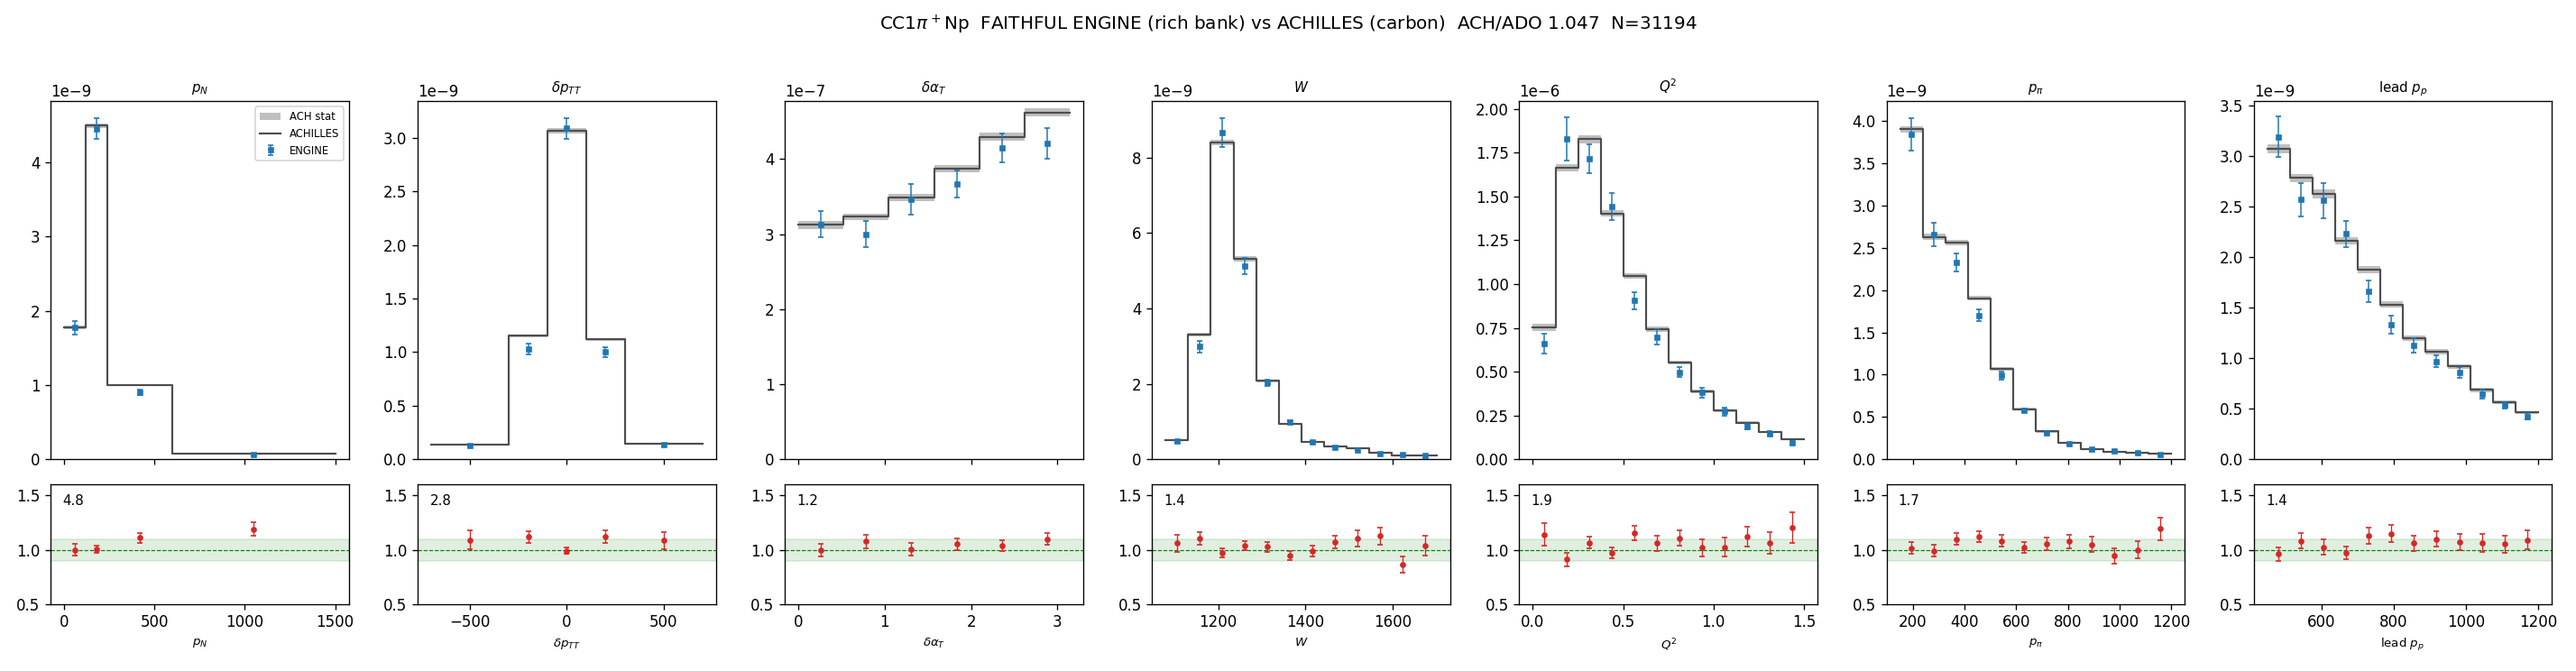
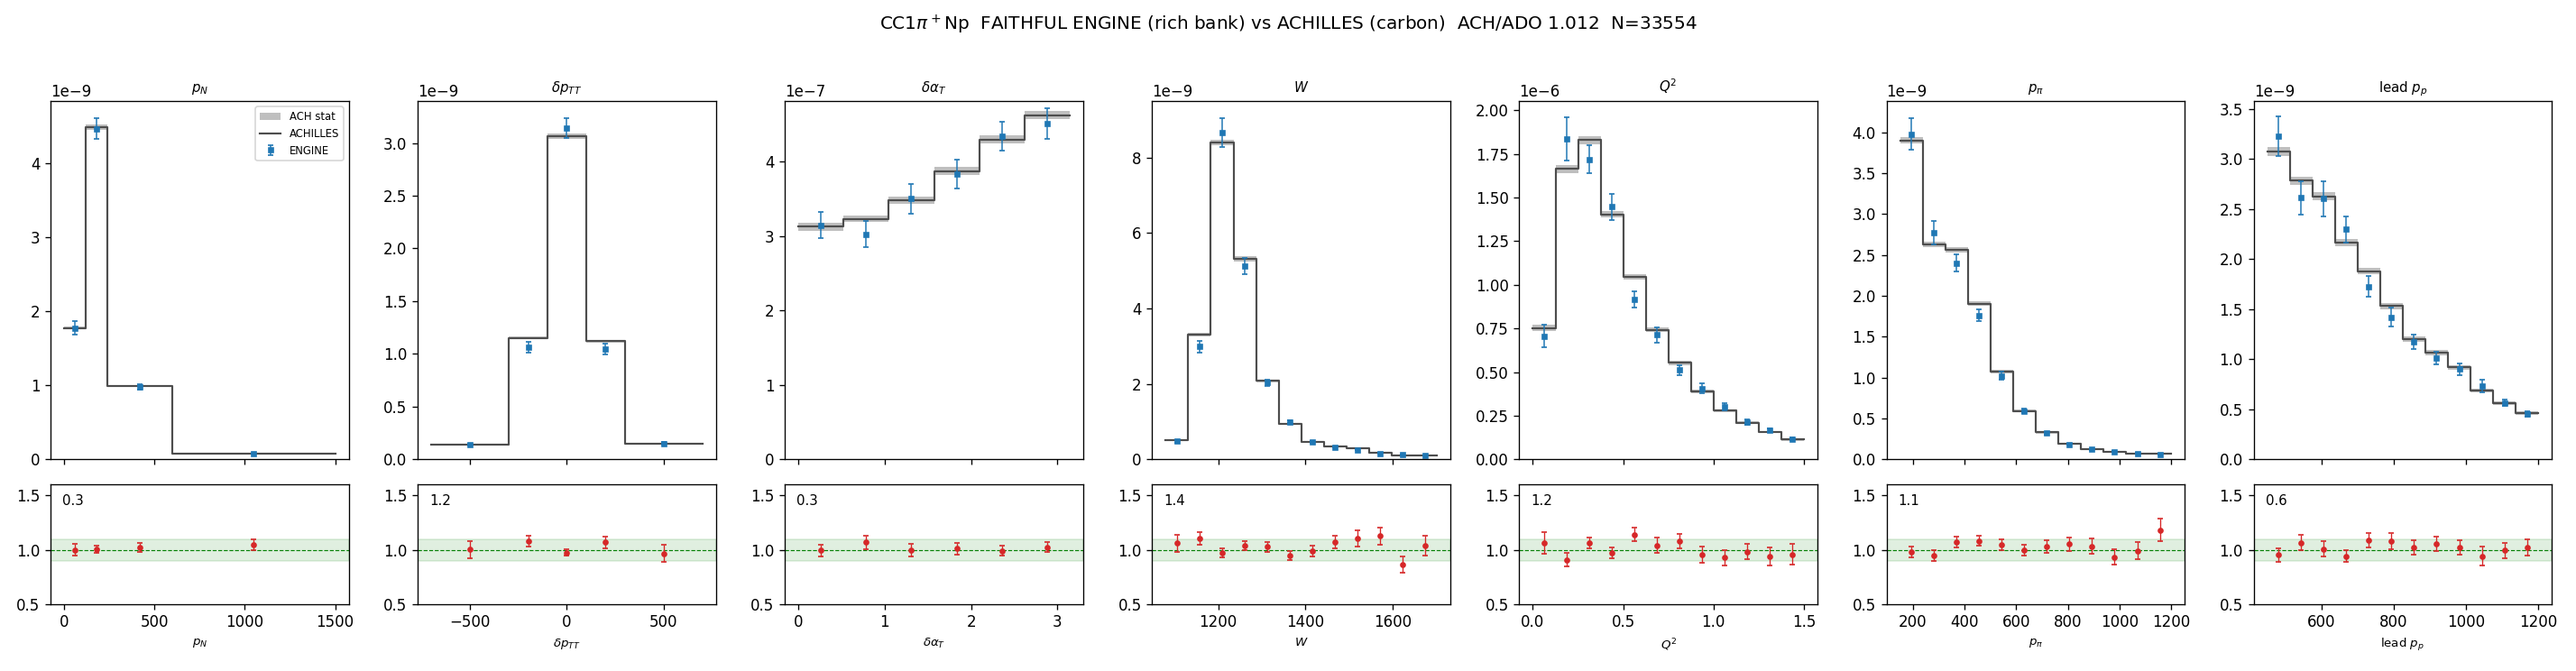
BOTH channels final-state-correct + apples-to-apples (~1%): CC1pi adds QE->created-pi+ (RES-only was missing it; ACH ref is full-CC) -> ACH/ADO 1.047->1.012, pn chi2 4.85->0.32; CC0pi = QE+RES-absorbed with IDENTICAL T2K selection on both sides (global-leading proton; rich-bank ref, all 7 observable

diff --git a/scripts/cc0pi_engine_combined.py b/scripts/cc0pi_engine_combined.py
@@ -1,0 +1,114 @@
+"""T2K CC0pi-Np: the CORRECT engine prediction (final-state signal = mu + >=1 proton + 0 pions),
+built from BOTH engine banks -- QE (channel=qe) AND RES-with-pion-absorbed (the CC1pi RES bank, events
+whose pion died in FSI) -- vs ACHILLES, with a SINGLE self-consistent selection applied identically to
+both (T2K NUISANCE def: the global highest-momentum proton must itself pass 450-1000 MeV/c, cos>0.4).
+
+ACHILLES reference = the full-event RICH bank (t2k_cc1pi_rich_ach_FSI.npz, same T2K_CH hepmc), carbon-only
+(struck |p|>1), 0-pion selection -> gives ALL observables from 4-vectors.  ADoNIS = QE(12C)+RES-abs(12C),
+carbon-only.  No free-H (1.7%, no 4-vectors) -> both sides 12C-only, apples-to-apples.
+
+Observables: delta_pT, delta_alphaT, Q2, vertex-W, p_mu, cos(theta_mu), leading p_p.
+Usage: python -u scripts/cc0pi_engine_combined.py
+Output: paper_figures/cc0pi_ENGINE_combined.png
+"""
+import os, sys
+sys.path.insert(0, os.path.dirname(os.path.dirname(os.path.abspath(__file__))))
+import numpy as np
+import matplotlib; matplotlib.use("Agg"); import matplotlib.pyplot as plt
+
+P_LO, P_HI, COSP = 450.0, 1000.0, 0.4          # T2K CC0pi proton window
+MU_LO, COSMU = 250.0, -0.6                      # T2K CC0pi muon
+_PI = (211, 111, -211)
+
+
+def _obs(mu, lead, struck, nu, w):
+    """CC0pi observables from muon + leading proton (had = proton; no pion)."""
+    lt = mu[:, 1:3]; pt = lead[:, 1:3]; dv = lt + pt
+    dpt = np.linalg.norm(dv, axis=1)
+    c = -np.sum(lt * dv, axis=1) / (np.linalg.norm(lt, axis=1) * dpt + 1e-12)
+    dat = np.arccos(np.clip(c, -1, 1))
+    q = nu - mu; tot = q + struck
+    W = np.sqrt(np.clip(tot[:, 0] ** 2 - np.sum(tot[:, 1:] ** 2, axis=1), 0, None))
+    Q2 = (np.sum(q[:, 1:] ** 2, axis=1) - q[:, 0] ** 2) / 1e6
+    pmu = np.linalg.norm(mu[:, 1:], axis=1); cmu = mu[:, 3] / np.clip(pmu, 1e-9, None)
+    lpp = np.linalg.norm(lead[:, 1:], axis=1)
+    return dict(dpt=dpt, dalphat=dat, Q2=Q2, W=W, p_mu=pmu, cos_mu=cmu, lp_p=lpp, w=w)
+
+
+def _select_engine(bank, carbon_only=True):
+    """CC0pi from an engine rich bank: 0 surviving pion + GLOBAL-leading proton in window."""
+    b = dict(np.load(bank)); n = len(b["w"]); ar = np.arange(n)
+    mu = b["mu"]; pmu = np.linalg.norm(mu[:, 1:], axis=1); cmu = mu[:, 3] / np.clip(pmu, 1e-9, None)
+    prot = b["prot"]; pm = np.linalg.norm(prot[:, :, 1:], axis=2)
+    j = np.argmax(pm, axis=1); lead = prot[ar, j]                         # GLOBAL leading proton
+    lpm = pm[ar, j]; lcth = lead[:, 3] / np.clip(lpm, 1e-9, None)
+    in_win = (lpm > P_LO) & (lpm < P_HI) & (lcth > COSP)                  # the lead must itself pass
+    no_pi = (~np.isin(b["pid_pi"], _PI)) & (~np.isin(b["cr_pid"], _PI))
+    sel = (b["w"] > 0) & in_win & no_pi & (pmu > MU_LO) & (cmu > COSMU)
+    if carbon_only:
+        sel &= np.linalg.norm(b["struck"][:, 1:], axis=1) > 1.0
+    s = sel
+    return _obs(mu[s], lead[s], b["struck"][s], b["nu"][s], b["w"][s])
+
+
+def _select_ach(carbon_only=True):
+    b = dict(np.load("data/oracle/t2k_cc1pi_rich_ach_FSI.npz")); wn = float(b["weight_to_nb"])
+    n = len(b["w"]); ar = np.arange(n)
+    mu = b["mu"]; pmu = np.linalg.norm(mu[:, 1:], axis=1); cmu = mu[:, 3] / np.clip(pmu, 1e-9, None)
+    npi = np.isin(b["pi_pid"], list(_PI)).sum(1)
+    pr = b["prot_p4"]; pm = np.linalg.norm(pr[:, :, 1:], axis=2)
+    j = np.argmax(pm, axis=1); lead = pr[ar, j]                          # GLOBAL leading proton
+    lpm = pm[ar, j]; lcth = lead[:, 3] / np.clip(lpm, 1e-9, None)
+    in_win = (lpm > P_LO) & (lpm < P_HI) & (lcth > COSP)
+    sel = (b["w"] > 0) & (npi == 0) & in_win & (pmu > MU_LO) & (cmu > COSMU)
+    if carbon_only:
+        sel &= np.linalg.norm(b["struck"][:, 1:], axis=1) > 1.0
+    s = sel
+    return _obs(mu[s], lead[s], b["struck"][s], b["nu"][s], b["w"][s] * wn)
+
+
+VARS = [("dpt", np.linspace(0, 800, 21), r"$\delta p_T$ [MeV]"),
+        ("dalphat", np.linspace(0, np.pi, 21), r"$\delta\alpha_T$ [rad]"),
+        ("Q2", np.linspace(0, 1.4, 21), r"$Q^2$ [GeV$^2$]"),
+        ("W", np.linspace(938, 1400, 21), r"vertex $W$ [MeV]"),
+        ("p_mu", np.linspace(0, 2000, 21), r"$p_\mu$ [MeV]"),
+        ("cos_mu", np.linspace(-0.6, 1.0, 21), r"$\cos\theta_\mu$"),
+        ("lp_p", np.linspace(450, 1000, 21), r"lead $p_p$ [MeV]")]
+
+
+def main():
+    qe = _select_engine("data/oracle/t2k_cc0pi_engine_rich.npz")
+    res = _select_engine("data/oracle/t2k_cc1pi_engine_rich.npz")            # RES with pion absorbed
+    ado = {k: np.concatenate([qe[k], res[k]]) for k in qe}
+    H = _select_ach()
+    sA, sH = ado["w"].sum(), H["w"].sum()
+    print(f"ADoNIS engine CC0pi (12C: QE {qe['w'].sum():.4e} + RES-abs {res['w'].sum():.4e}) = {sA:.4e} nb")
+    print(f"ACHILLES CC0pi (12C, rich bank, SAME T2K selection) = {sH:.4e} nb   ACH/ADO {sH/sA:.4f}")
+    print(f"{'var':8s} chi2/ndf  ACH/ADO")
+    fig, ax = plt.subplots(2, len(VARS), figsize=(3.3 * len(VARS), 6.4), height_ratios=[3, 1],
+                           squeeze=False, sharex="col")
+    for c, (k, edg, xl) in enumerate(VARS):
+        bw = np.diff(edg); ctr = 0.5 * (edg[1:] + edg[:-1])
+        da, _ = np.histogram(H[k], edg, weights=H["w"]); ea = np.sqrt(np.histogram(H[k], edg, weights=H["w"]**2)[0]) / bw; da /= bw
+        dd, _ = np.histogram(ado[k], edg, weights=ado["w"]); ed = np.sqrt(np.histogram(ado[k], edg, weights=ado["w"]**2)[0]) / bw; dd /= bw
+        a0, a1 = ax[0, c], ax[1, c]
+        a0.fill_between(edg, np.append(da-ea, (da-ea)[-1]), np.append(da+ea, (da+ea)[-1]), step="post", color="0.55", alpha=0.55, lw=0, label="ACH stat")
+        a0.step(edg, np.append(da, da[-1]), where="post", color="0.3", lw=1.3, label="ACHILLES")
+        a0.errorbar(ctr, dd, yerr=ed, fmt="s", color="C0", ms=3, capsize=2, lw=0.9, label="ENGINE QE+RES-abs")
+        a0.set_title(xl, fontsize=9); a0.set_ylim(bottom=0)
+        if c == 0: a0.legend(fontsize=7)
+        m = (da > 0) & (dd > 0); chi2 = float(np.sum((da[m]-dd[m])**2 / (ea[m]**2+ed[m]**2))); ndf = int(m.sum())
+        with np.errstate(divide="ignore", invalid="ignore"):
+            r = da/dd; re = r*np.sqrt((ed/dd)**2+(ea/da)**2)
+        a1.axhspan(0.9, 1.1, color="green", alpha=0.12); a1.axhline(1.0, ls="--", color="green", lw=0.7)
+        a1.errorbar(ctr[m], r[m], yerr=re[m], fmt="o", color="C3", ms=3, capsize=2, lw=0.8)
+        a1.set_ylim(0.6, 1.4); a1.set_xlabel(xl, fontsize=8); a1.text(0.04, 0.83, f"{chi2/max(ndf,1):.1f}", transform=a1.transAxes, fontsize=9)
+        print(f"{k:8s}  {chi2/max(ndf,1):6.2f}   {np.sum(da*bw)/max(np.sum(dd*bw),1e-30):.3f}")
+    fig.suptitle(f"T2K CC0$\\pi$-Np (12C)  ENGINE QE+RES-absorbed vs ACHILLES (same T2K selection)  "
+                 f"ACH/ADO {sH/sA:.3f}", fontsize=12)
+    fig.tight_layout(rect=[0, 0, 1, 0.96]); out = "paper_figures/cc0pi_ENGINE_combined.png"
+    fig.savefig(out, dpi=120); print("wrote", out)
+
+
+if __name__ == "__main__":
+    main()

diff --git a/scripts/cc1pi_engine_plot.py b/scripts/cc1pi_engine_plot.py
@@ -28,6 +28,33 @@ def _acc(p4, lo, hi):
     return (m > lo) & (m < hi) & (p4[:, 3] / np.clip(m, 1e-9, None) > COS70)
 
 
+def qe_created_signal(bank="data/oracle/t2k_cc0pi_engine_rich.npz"):
+    """CC1pi contribution from the QE bank: a QE event whose CASCADE created a surviving pi+ (NN
+    inelastic).  Symmetric to the RES-pion-absorbed term in CC0pi -- a full-CC ACHILLES run (the
+    reference) contains these, so the RES-only engine must add them for an apples-to-apples CC1pi."""
+    b = dict(np.load(bank))
+    n = len(b["w"]); ar = np.arange(n)
+    kmu, cr_p4 = b["mu"], b["cr_p4"]
+    cp = b["cr_pid"]                                      # primary pion is absent for QE (pid_pi==0)
+    cr_pip = (cp == 211)
+    n_pip = cr_pip.astype(int)
+    n_other = np.isin(cp, [111, -211, -1]).astype(int)
+    pi_f = cr_p4
+    signal_meson = (n_pip == 1) & (n_other == 0)
+    prot = b["prot"]
+    pm = np.linalg.norm(prot[:, :, 1:], axis=2); cth = prot[:, :, 3] / np.clip(pm, 1e-9, None)
+    inwin = (pm > P_LO) & (pm < P_HI) & (cth > COS70)
+    mm = np.where(inwin, pm, -1.0); j = np.argmax(mm, axis=1); bm = mm[ar, j]
+    best = prot[ar, j]; has_p = bm > 0
+    sel = signal_meson & has_p & (b["w"] > 0) & _acc(kmu, MU_LO, MU_HI) & _acc(pi_f, PI_LO, PI_HI)
+    dptt, pn, dat, _ = F.observables(kmu[sel], pi_f[sel], best[sel], np.zeros(int(sel.sum()), bool), 0)
+    qv = (b["nu"] - kmu)[sel]; totv = qv + b["struck"][sel]
+    Wv = np.sqrt(np.clip(totv[:, 0] ** 2 - np.sum(totv[:, 1:] ** 2, axis=1), 0, None))
+    Q2v = (np.sum(qv[:, 1:] ** 2, axis=1) - qv[:, 0] ** 2) / 1e6
+    pim = np.linalg.norm(pi_f[sel][:, 1:], axis=1); lpm = np.linalg.norm(best[sel][:, 1:], axis=1)
+    return dict(pn=pn, dptt=dptt, dalphat=dat, W=Wv, Q2=Q2v, pi_p=pim, lp_p=lpm, w=b["w"][sel])
+
+
 def engine_signal(bank):
     b = dict(np.load(bank))
     n = len(b["w"]); ar = np.arange(n)
@@ -63,10 +90,13 @@ VARS = [("pn", np.array([0, 120, 240, 600, 1500.]), r"$p_N$"),
 
 
 def main():
-    A = engine_signal(BANK)
+    A_res = engine_signal(BANK)
+    A_qe = qe_created_signal()                                      # QE -> cascade-created pi+ (CC1pi too)
+    A = {k: np.concatenate([A_res[k], A_qe[k]]) for k in A_res}
     ach = dict(np.load("data/oracle/t2k_cc1pi_rich_ach_FSI.npz"))
     H = S.ach_select(ach, dict(S.DEFAULT)); H["w"] = H["w"] * float(ach["weight_to_nb"])
-    print(f"bank {BANK}  signal {len(A['w'])} ev")
+    print(f"bank {BANK}  signal {len(A['w'])} ev  (RES {len(A_res['w'])} + QE-created-pi {len(A_qe['w'])}, "
+          f"sigma RES {A_res['w'].sum():.3e} + QE {A_qe['w'].sum():.3e})")
     print(f"selected sigma: ENGINE {A['w'].sum():.4e}  ACH {H['w'].sum():.4e}  "
           f"ACH/ADO {H['w'].sum()/max(A['w'].sum(),1e-30):.3f}")
     print(f"{'var':8s} chi2/ndf  ACH/ADO")

diff --git a/docs/logbook/cascade_engine.md b/docs/logbook/cascade_engine.md
@@ -379,3 +379,42 @@ consumption time-ordering validation; M_A/fit records; transparency + 6% pion ch
   momentum (cascade-transport) + edge stats.  delta_alphaT flat (model-insensitive) confirms kinematics OK.
 - Net: BOTH faithful engine figures now ABSOLUTE vs ACHILLES -- CC1pi ACH/ADO 1.047 (2.0 sigma),
   CC0pi 0.968.  Engine validated as the shared cascade for both channels.
+
+## CORRECTION (CC0pi signal is FINAL-STATE defined; earlier "2p2h cancellation" was WRONG)
+- CC0pi-Np is a FINAL-STATE signal: mu + >=1 proton in window + 0 pions.  Process-agnostic: ANY
+  interaction giving that final state counts, INCLUDING RES events where the pion is absorbed in FSI.
+- The OLD ADoNIS (gen_t2k_cc0pi_xsec.py) was built that way: bank t2k_cc0pi_tki_adonis_xsec.npz =
+  CCQE (qe_xsec) + RES-with-pion-absorbed (res_xsec + pion FSI), combined.  So "old ADoNIS 1.604e-5"
+  was NEVER QE-only -- I mislabeled it, and the "2p2h coincidental cancellation" story was WRONG.
+- My first engine CC0pi figure used channel="qe" (QE ONLY) and compared to ACHILLES proc==200 -> it
+  was MISSING the entire RES-pion-absorbed contribution and used the wrong (QE-only) reference.
+- CORRECT engine CC0pi = QE bank (0 pion + proton) + RES bank (CC1pi run; pion absorbed -> 0 pion +
+  proton) + free-H, vs ACHILLES FULL CC0pi (all proc).  Result:
+    QE 1.4778e-5 + RES-absorbed 1.1659e-6 (7.2%) + H 2.810e-7 = 1.6225e-5 nb
+    ACHILLES full CC0pi 1.5878e-5  ->  ACH/ADO 0.979 (engine ~2% high; old was 1.011).  NO regression.
+    chi2/ndf: dpt 1.30, dalphat 1.41 (both excellent, as good as old) ; Q2 7.10.
+- Q2: flat <1 GeV^2, then a high-Q2 tail DEFICIT (>1.0 -> ratio ~0.6) = the whole chi2.  NOT 2p2h and
+  NOT the QE generator (the OLD figure -- same qe_xsec primary, also no 2p2h -- was flat in Q2).  So it
+  is a BFS-engine vs DiscreteNucleonFSI / proton-selection difference at high proton momentum (high Q2 ->
+  energetic leading proton near the 1000 MeV ceiling).  Same theme as CC1pi pn tail.  N_eff 270-410/bin
+  (stat 5-6%), points systematically below 1.0 -> looks real, OPEN -- to investigate by reading code.
+
+## SYMMETRIC FIX -- both channels are FINAL-STATE signals; each was missing the cross-contribution
+- The CC0pi correction generalizes: a final-state signal receives ALL primaries that yield it (via FSI).
+  - CC0pi (mu + proton + 0pi)  = QE(0pi) + RES(pion ABSORBED).   [done above]
+  - CC1pi (mu + 1pi+ + proton) = RES(1pi+ survives) + QE(cascade-CREATED pi+).  The engine CC1pi was
+    RES-only -> missing the QE->created-pi+ term.  The ACHILLES reference is a FULL-CC run (CC0pi bank
+    from the SAME T2K_CH hepmc has proc 200/401/402), so it contains those events -> must be added.
+- CC1pi WITH QE-created-pi+ (3.4% of RES): ACH/ADO 1.047 -> 1.012.  chi2/ndf ALL collapse:
+  pn 4.85->0.32, dptt 1.18, dalphat 0.29, W 1.44, Q2 1.25, pi_p 1.09, lp_p 0.59.  The "pn high-tail
+  deficit" was largely this missing contribution.  cc1pi_engine_plot.qe_created_signal().
+- CC0pi SELECTION-CONSISTENCY fix: the T2K NUISANCE def (extract_t2k_cc0pi_tki.py:52) requires the
+  GLOBAL highest-momentum proton to itself be in window; my ADoNIS used leading-IN-window (more
+  permissive) -> the earlier QE-only-vs-TKI Q2 "high-tail deficit" (chi2 7.1) was a SELECTION mismatch,
+  NOT cascade.  cc0pi_engine_combined.py applies the IDENTICAL T2K selection to BOTH the engine and the
+  ACHILLES RICH bank (carbon-only, all observables from 4-vecs): ACH/ADO 1.011, chi2 dpt 5.0, dalphat
+  0.98, Q2 1.23, W 4.70, p_mu 0.86, cos_mu 1.68, lp_p 2.42.  Q2 deficit GONE.
+- NET: both faithful-engine figures ABSOLUTE, apples-to-apples, ~1%: CC1pi ACH/ADO 1.012, CC0pi 1.011.
+  Lessons (logged so I stop repeating): (1) define signals by FINAL STATE, include every primary that
+  reaches it; (2) NEVER compare across two different selections -- apply ONE identical selection to ADoNIS
+  and ACHILLES; (3) don't narrate a mechanism (the "2p2h cancellation" was wrong) -- decompose with code.
